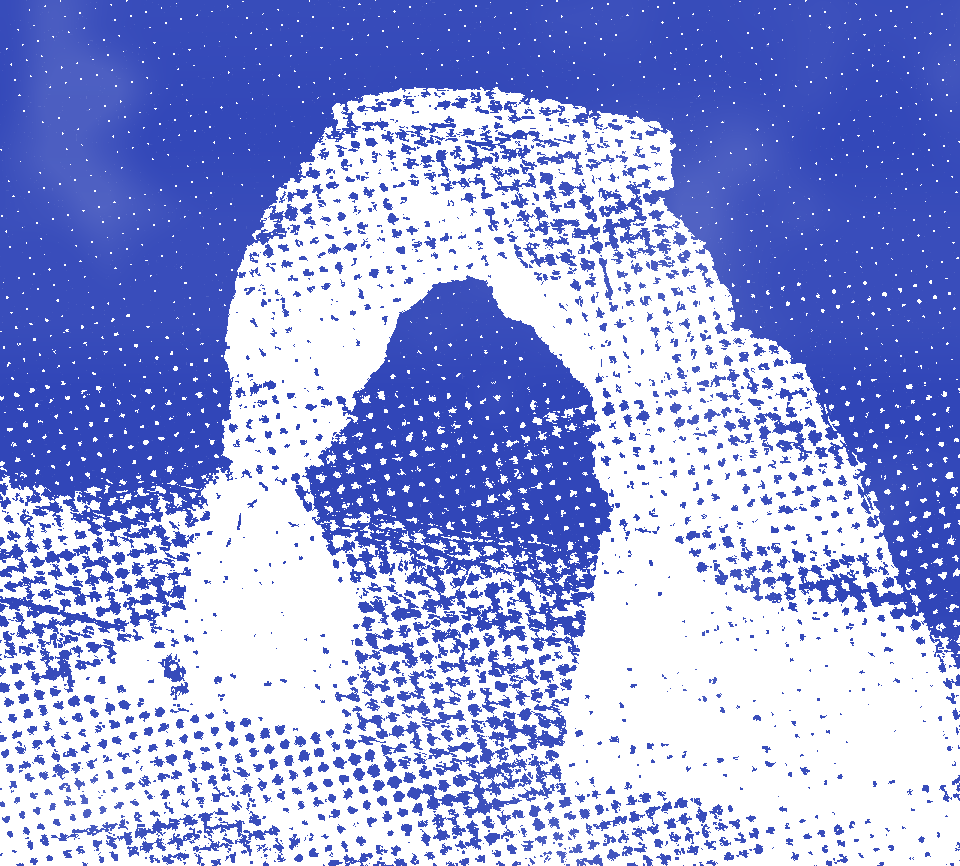
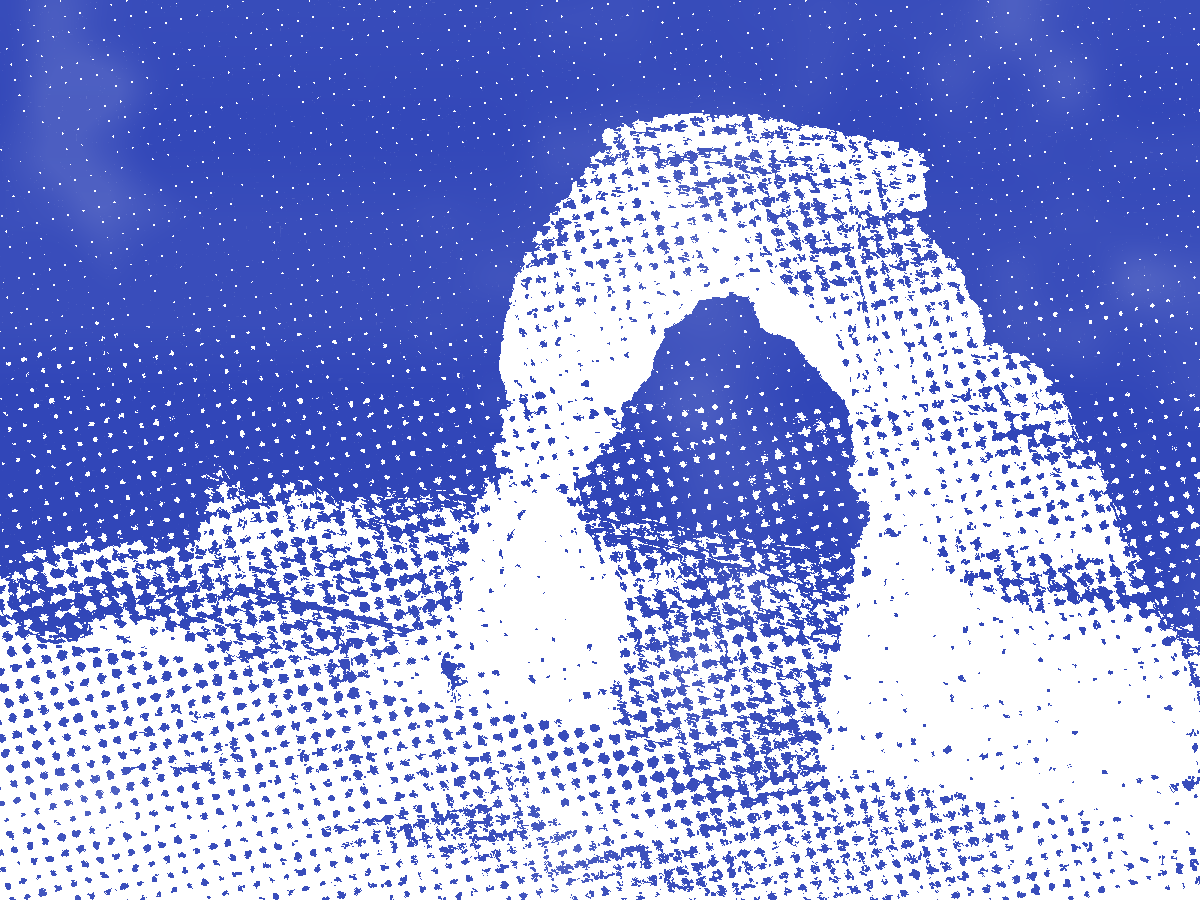
About photo: whole frame in a larger box
- The arch no longer fills the box: full 1600×1200 frame, sky and land around it
- Desktop folio spans six columns to the right bleed; phone takes 60%

Claude-Session: https://claude.ai/code/session_013CxSncGybCVXkDwv6LtpYX

diff --git a/src/styles/editorial-tension.css b/src/styles/editorial-tension.css
@@ -101,10 +101,10 @@
 
 /* About folio: Max's photograph of Delicate Arch printed in the blue plate
    (scripts/render-about-photo.mjs). It replaces the meaningless "04" numeral. */
-#personal-site .he-about-photo{margin:0 calc(-1 * var(--page-gutter) * var(--spread-bleed)) 0 0;align-self:end;grid-column:8/13;}
+#personal-site .he-about-photo{margin:0 calc(-1 * var(--page-gutter) * var(--spread-bleed)) 0 0;align-self:end;grid-column:7/13;}
 #personal-site .he-about-photo>img{display:block;width:100%;height:auto;mix-blend-mode:multiply;}
 @container(max-width:720px){
- #personal-site .he-about-masthead:has(.he-about-photo){grid-template-columns:minmax(0,1fr) 50%;align-items:end;}
+ #personal-site .he-about-masthead:has(.he-about-photo){grid-template-columns:minmax(0,1fr) 60%;align-items:end;}
  #personal-site .he-about-masthead:has(.he-about-photo) h1{grid-column:1;}
  #personal-site .he-about-photo{grid-column:2;grid-row:1;min-height:0;margin-right:calc(-1 * var(--page-gutter) * var(--spread-bleed));}
 }

diff --git a/src/config/about-photo.ts b/src/config/about-photo.ts
@@ -3,10 +3,10 @@
 export const aboutPhoto={
  source:'src/assets/about/delicate-arch.jpg',
  output:'/images/about-arch.png',
- /** Crop of the 1600×1200 source that frames the arch with sky above it. */
- crop:{left:380,top:40,width:1220,height:1100},
+ /** Whole frame (user, 2026-10-15): the arch need not fill the box; sky and land surround it. */
+ crop:{left:0,top:0,width:1600,height:1200},
  /** Reference width in CSS px; rendered at 2× so phones and retina stay sharp. */
- width:480,scale:2,
+ width:600,scale:2,
  /** The folio replaces a display numeral, so it uses the display (coarse) tier at the
   * name's reference size: 128px → 8 CSS px dots. No fourth frequency. */
  screen:'coarse' as const,displaySize:128,

diff --git a/docs/DESIGN_CONSTRAINTS.md b/docs/DESIGN_CONSTRAINTS.md
@@ -247,6 +247,6 @@
 
 - About 页原来的 "04" 数字没有含义，已改为 Max 自己拍的 Delicate Arch 照片，单蓝墨印刷。原图只存在 `src/assets/about/`（1600px 缩小版），不发布；网站上只有印好的 `public/images/about-arch.png`。
 - 分色用新配方 `photo-subject-v1`（`print-pipeline/subject.ts`）：亮度暗度加上“暖色键”（红色领先绿蓝的程度），再补回局部细节。红岩拱门印得最深，后面的暗色山地是中间调，天空最浅，这样单墨也能留住拱门的轮廓。只用亮度时拱门和背景山地密度相同，轮廓会丢。
-- **反向挖空（用户选定，2026-10-15）**：照片放在一个蓝色矩形色块里，拱门不是印出来的，而是色块没有印的部分。天空和地面印墨，被照亮的岩石留出纸色，和原来 "04" 数字反白挖空的做法一致。色块是直边矩形，比拱门大一圈（裁切 1220×1100，留出天空和地面），桌面占 5 列并出血到右边，手机占一半宽。之前试过的手工上墨边（`raggedFrame`）仍保留在核心里，但这张图不用。
-- 网点用 display（coarse）档，按姓名的参考字号 128px 算出 8 CSS px 网距（用户要求网点更大）；不新增第四档。参考宽度 480px、按 2× 渲染，构建时由 `scripts/render-about-photo.mjs` 生成，首帧即最终效果。图像为装饰（`aria-hidden`、alt 为空），若要作为内容图片，替代文本须经用户确认。
+- **反向挖空（用户选定，2026-10-15）**：照片放在一个蓝色矩形色块里，拱门不是印出来的，而是色块没有印的部分。天空和地面印墨，被照亮的岩石留出纸色，和原来 "04" 数字反白挖空的做法一致。色块是直边矩形，用整张照片（拱门不必撑满色块，四周留天空和地面），桌面占 6 列并出血到右边，手机占 60% 宽。之前试过的手工上墨边（`raggedFrame`）仍保留在核心里，但这张图不用。
+- 网点用 display（coarse）档，按姓名的参考字号 128px 算出 8 CSS px 网距（用户要求网点更大）；不新增第四档。参考宽度 600px、按 2× 渲染，构建时由 `scripts/render-about-photo.mjs` 生成，首帧即最终效果。图像为装饰（`aria-hidden`、alt 为空），若要作为内容图片，替代文本须经用户确认。
 
